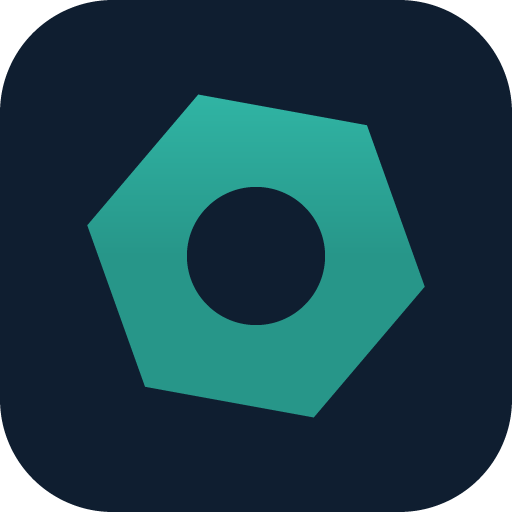
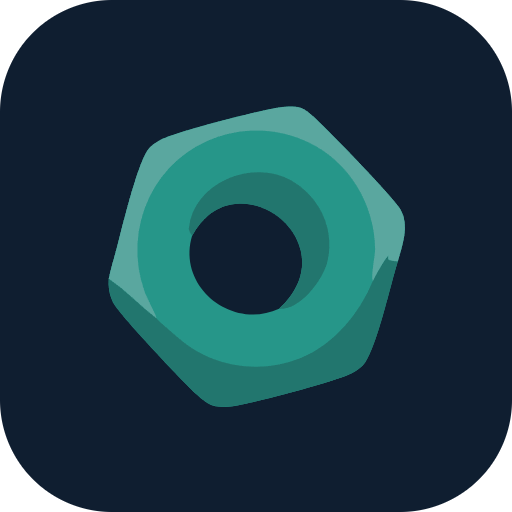
acilis logosu: kutu renk sapmasiydi, ikon ise markanin TAKLIDIYDI
Cemil: "Uygulama acilirken logonun arka plani var. Svg olmali."

Notun arkasindan iki ayri kusur cikti.

1) KUTU — renk sapmasi. Dort ayri yerde dort dark/light degeri vardi
   ve ikisi hicbir token'a karsilik gelmiyordu:
     manifest background_color  #0A0F17   <- token yok
     ikon plakasi (icon.svg)    #0F1E30
     tokens.css koyu --bg       #0A1220
     meta theme-color (acik)    #F2F5F8   <- token yok (#EDF2F9 olmali)
   Acilis zemini ile plaka ayri ton olunca plaka KUTU olarak goruluyor.
   Simdi: background_color = plaka (kutu kayboluyor), theme_color ve
   meta'lar = tokens.css --bg.

2) SVG OLMALI — hakliymis, ama sandigimdan derin. tools/ikon-png.js
   markayi TAKLIT EDEN bir altigen ciziyordu ("sadelestirilmis hali"
   diye yaziyordu ustunde). Yani telefonun ana ekraninda ve acilista
   duran sekil logo DEGILDI; logo yalniz favicon'daki SVG'ydi. Uc
   yuzeyde iki ayri marka.
   ikon-png.js SILINDI. Ikonlar artik icon.svg'den uretiliyor
   (tools/ikon/): tarayici kanvasa ciziyor, sunucu diske yaziyor --
   depoya raster kutuphanesi girmiyor, base64 sohbetten gecmiyor.
   iOS full-bleed (saydam kose siyah dolar), maskable %80 guvenli
   alanda, "any" ikonlar SVG'nin kendi yuvarlak plakasiyla.

Ayni hata sessizce geri gelmesin diye derlemeye RENK DENETIMI kondu:
tokens.css + icon.svg tek kaynak, manifest ve meta onlara uymazsa
derleme DURUYOR. Negatif dogrulama: eski renk geri konunca derleme
"acilis zemini ikon plakasindan farkli -> logonun altinda KUTU
[…]

Changed region(s): [[0.1562, 0.1875, 0.8438, 0.8125], [0.3438, 0.3125, 0.6562, 0.6562]]

diff --git a/tools/pwa-build.js b/tools/pwa-build.js
@@ -16,6 +16,65 @@ const KOK = path.join(__dirname, '..');
 const KAYNAK = path.join(KOK, 'prototypes', 'omurga.html');
 const APP = path.join(KOK, 'app');
 
+/* ---------- 0) RENK DENETIMI ----------
+ * Yasanan hata: uygulama acilirken logonun altinda KUTU goruluyordu.
+ * Sebep dort ayri yerde duran ve birbirini tutmayan renklerdi:
+ *   manifest background_color  #0A0F17   (hicbir token'a karsilik gelmiyor)
+ *   ikon plakasi (icon.svg)    #0F1E30
+ *   tokens.css koyu --bg       #0A1220
+ *   meta theme-color (acik)    #F2F5F8   (token: #EDF2F9)
+ * Acilis zemini ile ikon plakasi ayri tonda olunca plaka KUTU olarak
+ * goruluyor. Renkler CSS disinda (manifest, meta) tekrarlandigi icin
+ * token'lardan sessizce ayrisabiliyorlar; bu denetim ayrismayi
+ * derlemede yakalar.
+ *
+ * Kural:
+ *   manifest.background_color == icon.svg plaka rengi   (acilista kutu yok)
+ *   manifest.theme_color      == tokens koyu --bg       (durum cubugu uygulamayla ayni)
+ *   meta theme-color light    == tokens acik --bg
+ *   meta theme-color dark     == tokens koyu --bg
+ */
+function renkDenetimi(pwaBaslikMetni) {
+  const tokens = fs.readFileSync(path.join(KOK, 'docs', 'tokens.css'), 'utf8');
+  /* tokens.css'te --bg iki kez taniminiyor: once acik tema, sonra koyu. */
+  const bgler = [...tokens.matchAll(/--bg:\s*(#[0-9A-Fa-f]{6})/g)].map((m) => m[1].toUpperCase());
+  if (bgler.length < 2) {
+    console.error('HATA: tokens.css icinde acik/koyu --bg bulunamadi.');
+    process.exit(1);
+  }
+  const acikBg = bgler[0], koyuBg = bgler[1];
+
+  const svg = fs.readFileSync(path.join(KOK, 'prototypes', 'pwa', 'icon.svg'), 'utf8');
+  const plaka = (svg.match(/<rect[^>]*fill="(#[0-9A-Fa-f]{6})"/) || [])[1];
+  if (!plaka) {
+    console.error('HATA: icon.svg icinde plaka (zemin dikdortgeni) bulunamadi.');
+    process.exit(1);
+  }
+
+  const man = JSON.parse(fs.readFileSync(path.join(KOK, 'prototypes', 'pwa', 'manifest.json'), 'utf8'));
+  const metaAcik = (pwaBaslikMetni.match(/prefers-color-scheme: light\)" content="(#[0-9A-Fa-f]{6})"/) || [])[1];
+  const metaKoyu = (pwaBaslikMetni.match(/prefers-color-scheme: dark\)" content="(#[0-9A-Fa-f]{6})"/) || [])[1];
+
+  const kontroller = [
+    ['manifest.background_color', (man.background_color || '').toUpperCase(), plaka.toUpperCase(),
+     'acilis zemini ikon plakasindan farkli -> logonun altinda KUTU gorunur'],
+    ['manifest.theme_color', (man.theme_color || '').toUpperCase(), koyuBg,
+     'durum cubugu uygulamanin koyu zemininden farkli -> ustte serit'],
+    ['meta theme-color (light)', (metaAcik || '').toUpperCase(), acikBg, 'token disi renk'],
+    ['meta theme-color (dark)', (metaKoyu || '').toUpperCase(), koyuBg, 'token disi renk']
+  ];
+
+  const sapan = kontroller.filter(([, olan, olmasi]) => olan !== olmasi);
+  if (sapan.length) {
+    console.error('HATA: renk sapmasi (' + sapan.length + ')');
+    sapan.forEach(([ad, olan, olmasi, neden]) => {
+      console.error('  ' + ad.padEnd(26) + olan + '  olmali: ' + olmasi + '   — ' + neden);
+    });
+    process.exit(1);
+  }
+  console.log('renk denetimi     TAMAM  · plaka ' + plaka + ' · --bg ' + acikBg + ' / ' + koyuBg);
+}
+
 /* ---------- 1) prototipi oku ---------- */
 let html = fs.readFileSync(KAYNAK, 'utf8');
 const oncekiUzunluk = html.length;
@@ -38,13 +97,14 @@ html = html.replace(fontLink, '<link rel="stylesheet" href="fonts.css" />\n');
 const pwaBaslik = `<link rel="manifest" href="manifest.json" />
 <link rel="apple-touch-icon" href="apple-touch-icon.png" />
 <link rel="icon" type="image/svg+xml" href="icon.svg" />
-<meta name="theme-color" media="(prefers-color-scheme: light)" content="#F2F5F8" />
-<meta name="theme-color" media="(prefers-color-scheme: dark)" content="#0A0F17" />
+<meta name="theme-color" media="(prefers-color-scheme: light)" content="#EDF2F9" />
+<meta name="theme-color" media="(prefers-color-scheme: dark)" content="#0A1220" />
 <meta name="mobile-web-app-capable" content="yes" />
 <meta name="apple-mobile-web-app-capable" content="yes" />
 <meta name="apple-mobile-web-app-title" content="Tamiron" />
 <meta name="apple-mobile-web-app-status-bar-style" content="black-translucent" />
 `;
+renkDenetimi(pwaBaslik);
 html = html.replace('<link rel="stylesheet" href="fonts.css" />\n',
                     '<link rel="stylesheet" href="fonts.css" />\n' + pwaBaslik);
 

diff --git a/tools/ikon/uret.html b/tools/ikon/uret.html
@@ -1,0 +1,63 @@
+<meta charset="utf-8" />
+<title>İkon üretimi</title>
+<style>body{background:#8a8a8a;font:13px system-ui;margin:12px}
+canvas{margin:8px;vertical-align:top;outline:1px dashed #fff4}</style>
+<div id="cikti">yükleniyor…</div>
+<script>
+/* Uygulama ikonlarını MARKANIN KENDİ SVG'sinden üretir.
+   Eski üreteç (tools/ikon-png.js) markayı taklit eden bir altıgen
+   çiziyordu: telefonun ana ekranında duran şekil logo DEĞİLDİ.
+   Cemil, 14.09: "Uygulama açılırken logonun arka planı var. Svg olmalı."
+
+   Çizim tarayıcıda yapılıyor; depoya harici bir raster kütüphanesi
+   girmiyor. */
+window.HAZIR = null;
+
+fetch('icon.svg').then(function (r) { return r.text(); }).then(function (metin) {
+  /* Plaka rengi TEK KAYNAK: SVG'nin kendi zemin dikdörtgeninden
+     okunuyor. İkinci bir yere yazılsa ikisi zamanla ayrışır ve
+     açılışta yine kutu görünür — bu hatanın kendisi buydu. */
+  var plaka = (metin.match(/<rect[^>]*fill="(#[0-9A-Fa-f]{6})"/) || [])[1] || '#0F1E30';
+
+  var img = new Image();
+  img.onload = function () {
+    var isler = [
+      /* iOS saydamlık kabul etmiyor: köşeleri kendi yuvarlıyor, bizim
+         şeffaf köşelerimizi SİYAH dolduruyor. Plaka full-bleed. */
+      ['apple-touch-icon.png', 180, plaka, 1.0],
+      /* "any" ikonlar SVG'nin kendi yuvarlak plakasıyla, köşeler şeffaf */
+      ['icon-192.png',         192, null,  1.0],
+      ['icon-512.png',         512, null,  1.0],
+      /* maskable: platform kırpıyor. Full-bleed zemin + marka %80
+         güvenli alanda. SVG'nin kendi plakası aynı renk olduğu için
+         kaynaşıyor, kırpma sonrası köşede boşluk kalmıyor. */
+      ['icon-maskable-512.png', 512, plaka, 0.80]
+    ];
+    var sonuc = {}, kutu = document.getElementById('cikti');
+    kutu.textContent = '';
+    isler.forEach(function (is) {
+      var ad = is[0], boyut = is[1], zemin = is[2], doluluk = is[3];
+      var c = document.createElement('canvas');
+      c.width = c.height = boyut;
+      var g = c.getContext('2d');
+      if (zemin) { g.fillStyle = zemin; g.fillRect(0, 0, boyut, boyut); }
+      var k = boyut * doluluk, p = (boyut - k) / 2;
+      g.drawImage(img, p, p, k, k);
+      sonuc[ad] = c.toDataURL('image/png').split(',')[1];
+      kutu.appendChild(c);
+    });
+    window.HAZIR = { png: sonuc, plaka: plaka };
+    /* Diske yazdırma sunucuya devrediliyor: base64 sohbetten geçmiyor. */
+    fetch('/yaz', { method: 'POST', body: JSON.stringify(sonuc) })
+      .then(function (r) { return r.text(); })
+      .then(function (t) { window.YAZILDI = t; });
+  };
+  /* ⚠ Blob'a giden SVG'de xmlns ŞART: xmlns'siz SVG <img> olarak hiç
+     çizilmiyor ama onload yine de tetikleniyor — kanvas sessizce boş
+     kalıyor, hata da alınmıyor. */
+  if (metin.indexOf('xmlns=') < 0) {
+    metin = metin.replace('<svg', '<svg xmlns="http://www.w3.org/2000/svg"');
+  }
+  img.src = URL.createObjectURL(new Blob([metin], { type: 'image/svg+xml' }));
+});
+</script>

diff --git a/tools/ikon/sunucu.js b/tools/ikon/sunucu.js
@@ -1,0 +1,55 @@
+/* İkon üretim sayfasını sunar ve ürettiği PNG'leri diske yazar.
+   Base64'ü sohbetten geçirmemek için: sayfa POST /yaz ile gönderiyor,
+   sunucu doğrudan hedef klasörlere yazıyor (prototypes/pwa ve app).
+
+     node sunucu.js <port> <hedef1> [hedef2] */
+const http = require('http');
+const fs = require('fs');
+const path = require('path');
+
+const PORT = Number(process.argv[2] || 8143);
+const HEDEFLER = process.argv.slice(3);
+const KOK = __dirname;
+
+const TUR = { '.html': 'text/html; charset=utf-8', '.svg': 'image/svg+xml', '.png': 'image/png' };
+
+http.createServer((istek, cevap) => {
+  if (istek.method === 'POST' && istek.url === '/yaz') {
+    let govde = '';
+    istek.on('data', (p) => { govde += p; });
+    istek.on('end', () => {
+      let yazilan = [];
+      try {
+        const paket = JSON.parse(govde);
+        Object.keys(paket).forEach((ad) => {
+          /* Ad dışarıdan geliyor: yalnız beklenen dosya adları yazılır,
+             yol ayracı taşıyan bir ad klasör dışına çıkabilirdi. */
+          if (!/^[a-z0-9-]+\.png$/.test(ad)) return;
+          const bayt = Buffer.from(paket[ad], 'base64');
+          HEDEFLER.forEach((h) => {
+            fs.writeFileSync(path.join(h, ad), bayt);
+          });
+          yazilan.push(ad + ' (' + (bayt.length / 1024).toFixed(1) + ' KB)');
+        });
+      } catch (e) {
+        cevap.writeHead(400); cevap.end('bozuk paket'); return;
+      }
+      console.log('YAZILDI: ' + yazilan.join(' · '));
+      cevap.writeHead(200, { 'content-type': 'text/plain; charset=utf-8' });
+      cevap.end('tamam: ' + yazilan.length);
+    });
+    return;
+  }
+
+  const ad = (istek.url === '/' ? '/uret.html' : istek.url).split('?')[0];
+  /* Marka SVG'si burada kopya durmuyor: TEK KAYNAK prototypes/pwa.
+     Kopyalansaydı ikisi ayrışır ve ikon sessizce eskir. */
+  const yol = path.basename(ad) === 'icon.svg'
+    ? path.join(KOK, '..', '..', 'prototypes', 'pwa', 'icon.svg')
+    : path.join(KOK, path.basename(ad));
+  if (!fs.existsSync(yol)) { cevap.writeHead(404); cevap.end('yok'); return; }
+  cevap.writeHead(200, { 'content-type': TUR[path.extname(yol)] || 'application/octet-stream' });
+  cevap.end(fs.readFileSync(yol));
+}).listen(PORT, '127.0.0.1', () => {
+  console.log('ikon sunucusu ' + PORT + ' · hedef: ' + HEDEFLER.join(' , '));
+});

diff --git a/app/index.html b/app/index.html
@@ -18,8 +18,8 @@
 <link rel="manifest" href="manifest.json" />
 <link rel="apple-touch-icon" href="apple-touch-icon.png" />
 <link rel="icon" type="image/svg+xml" href="icon.svg" />
-<meta name="theme-color" media="(prefers-color-scheme: light)" content="#F2F5F8" />
-<meta name="theme-color" media="(prefers-color-scheme: dark)" content="#0A0F17" />
+<meta name="theme-color" media="(prefers-color-scheme: light)" content="#EDF2F9" />
+<meta name="theme-color" media="(prefers-color-scheme: dark)" content="#0A1220" />
 <meta name="mobile-web-app-capable" content="yes" />
 <meta name="apple-mobile-web-app-capable" content="yes" />
 <meta name="apple-mobile-web-app-title" content="Tamiron" />
@@ -11440,7 +11440,7 @@ if ('serviceWorker' in navigator && location.protocol.startsWith('http')) {
                    : kurulu ? 'gerekmez (kurulu)'
                    : 'gelmedi';
     durum.innerHTML =
-      'Sürüm <b>59b4d909</b><br>' +
+      'Sürüm <b>4907c4c7</b><br>' +
       'Açılış: ' + (kurulu ? 'uygulama' : 'tarayıcı') + ' · ' +
       location.protocol.replace(':', '') + '<br>' +
       'Çevrimdışı servis: ' + servis + '<br>' +

diff --git a/app/sw.js b/app/sw.js
@@ -3,7 +3,7 @@
    Strateji: kurulumda tum varliklari onbellege al; sonra ONBELLEK-ONCE, ag yedek.
    SURUM build sirasinda tools/pwa-build.js tarafindan damgalanir; degisince
    eski onbellek silinir ve yeni surum yuklenir. */
-const SURUM = '59b4d909';
+const SURUM = '4907c4c7';
 const ONBELLEK = 'tamiron-' + SURUM;
 
 const VARLIKLAR = [

diff --git a/docs/CALISMA-KUYRUGU.md b/docs/CALISMA-KUYRUGU.md
@@ -19,6 +19,34 @@
 
 ---
 
+## Tur 6 · 16.09.2026 · son commit `bef7f2e`
+
+Cemil sekiz not iletti (14–16.09, WhatsApp). Sekizi **beş iş**:
+ikisi ikişer notun aynı konusu.
+
+| # | İş | Hangi notlar | Durum |
+|---|---|---|---|
+| 6.1 | **Açılış logosunun arka planı** — uygulama açılırken logonun altında kutu görünüyor | *"Uygulama açılırken logonun arka planı var. Svg olmalı."* | **BİTTİ** — iki ayrı kusur çıktı: (1) açılış zemini ikon plakasından farklı tondaydı → kutu; (2) PNG ikonlar markanın TAKLİDİYDİ, artık `icon.svg`'den üretiliyor. Renk sapması derlemede yakalanıyor (negatif testle doğrulandı) |
+| 6.2 | **Ses ölçümü: kendi test verimiz + kötü kaydı bulmak** | *"Kötü ses kayıtlarını nasıl bulabiliriz?"* · *"Test verisi kendimiz oluşturabilir miyiz ses için."* | SIRADA |
+| 6.3 | **İz kaydı (log) — uzaktan görmek** | *"Log kaydı, nereye tıklanmış, ne yapılmış adım adım, hatalar, başarısızlıklar… mantığa aykırı işlemleri de görebilmeliyiz."* | SIRADA |
+| 6.4 | **Fatura → serviste kullanılan parça (kâr/zarar için)** | *"Fatura girişi olunca serviste kullanılan parçalara ekleyebilmeli… müşteri için değil kâr zarar muhasebe için."* · *"Faturasız çalışıyor da olabilirler."* | SIRADA |
+| 6.5 | **Taklit edilemezlik — alanı zapt etmek ve savunmak** | *"Kopyalanamaz bir özellik eklemek"* · *"Taklit edilemez olması için ne yapılabilir?… hızlı ilerlemeli ve alanı zapt etmeli ve savunmalıyız."* | SIRADA |
+
+**Sıra neden böyle:** 6.1 küçük ve somut, önden çıkar. 6.2 bir gün
+önce açılan **A-M39**'u kapatır — ses tarafı bugün ölçülemiyor, ölçüm
+aleti yarım. 6.3 mimariye dokunur ve 6.2 ile kesişir (kötü kaydı
+bulmanın yolu izden geçiyor). 6.4 **bekleyen MUH kararına girdi**;
+Cemil'in cevabını beklemeden hazırlanır. 6.5 strateji — ötekilerden
+beslendiği için sona kondu.
+
+⚠ **6.4 ve 6.5 karar üretmez, karar HAZIRLAR.** MUH kapsamını lider
+tek başına genişletmez (K-022); 6.4'ün çıktısı `MUHASEBE-KARARI.md`'ye
+girdi olur. 6.5 bir ürün kararı değil, seçeneklerin bedeliyle birlikte
+serilmesidir.
+
+
+---
+
 ## Tur 5 · 14.09.2026 · son commit `cbb3302`
 
 Cemil sırayı kendisi verdi: **(a) MUH kararı · (b) bekleyen açık
